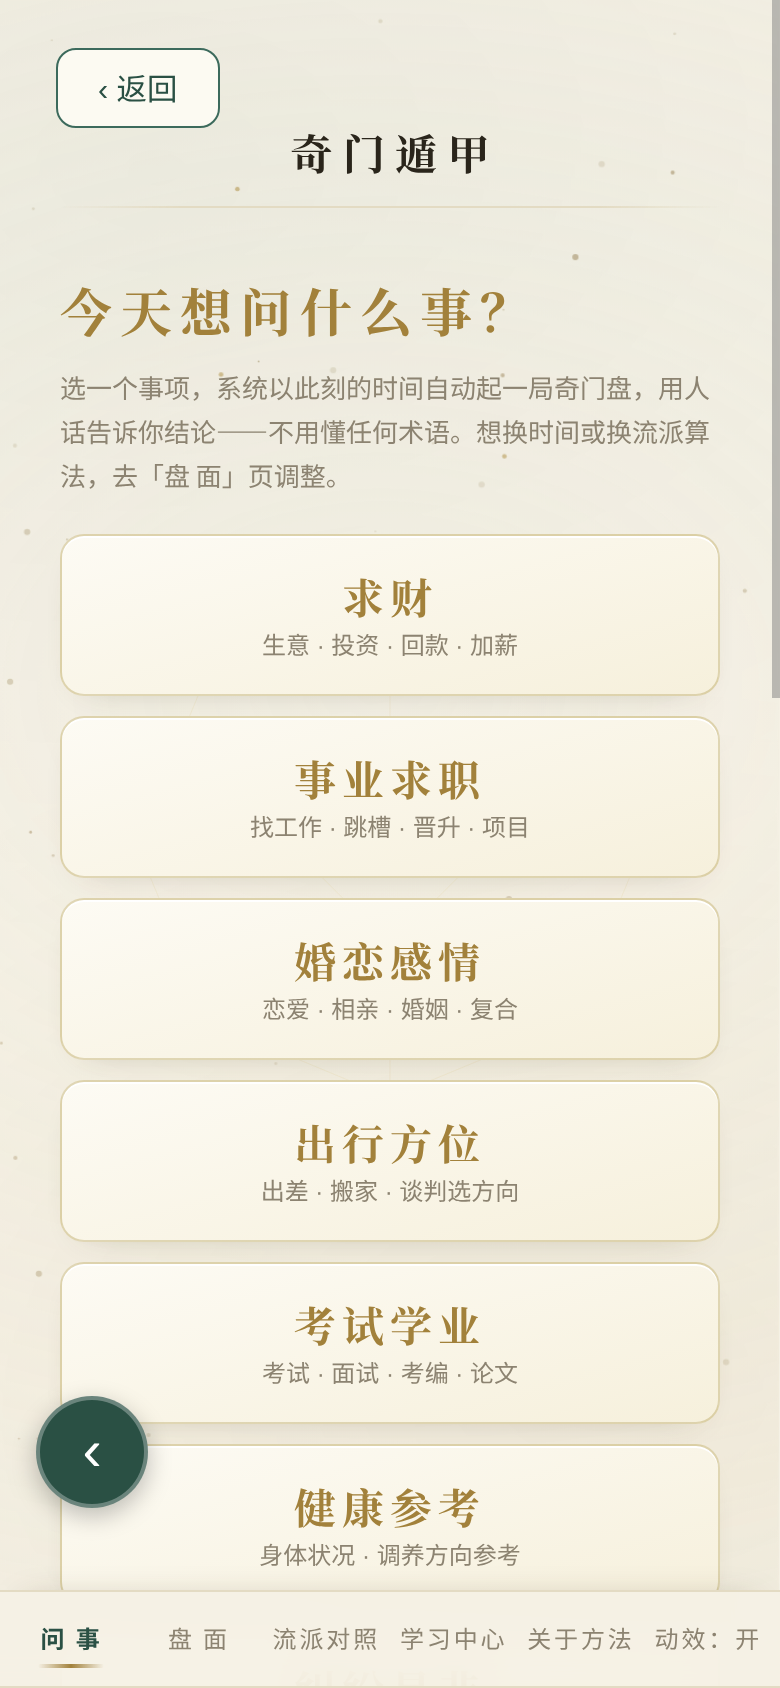
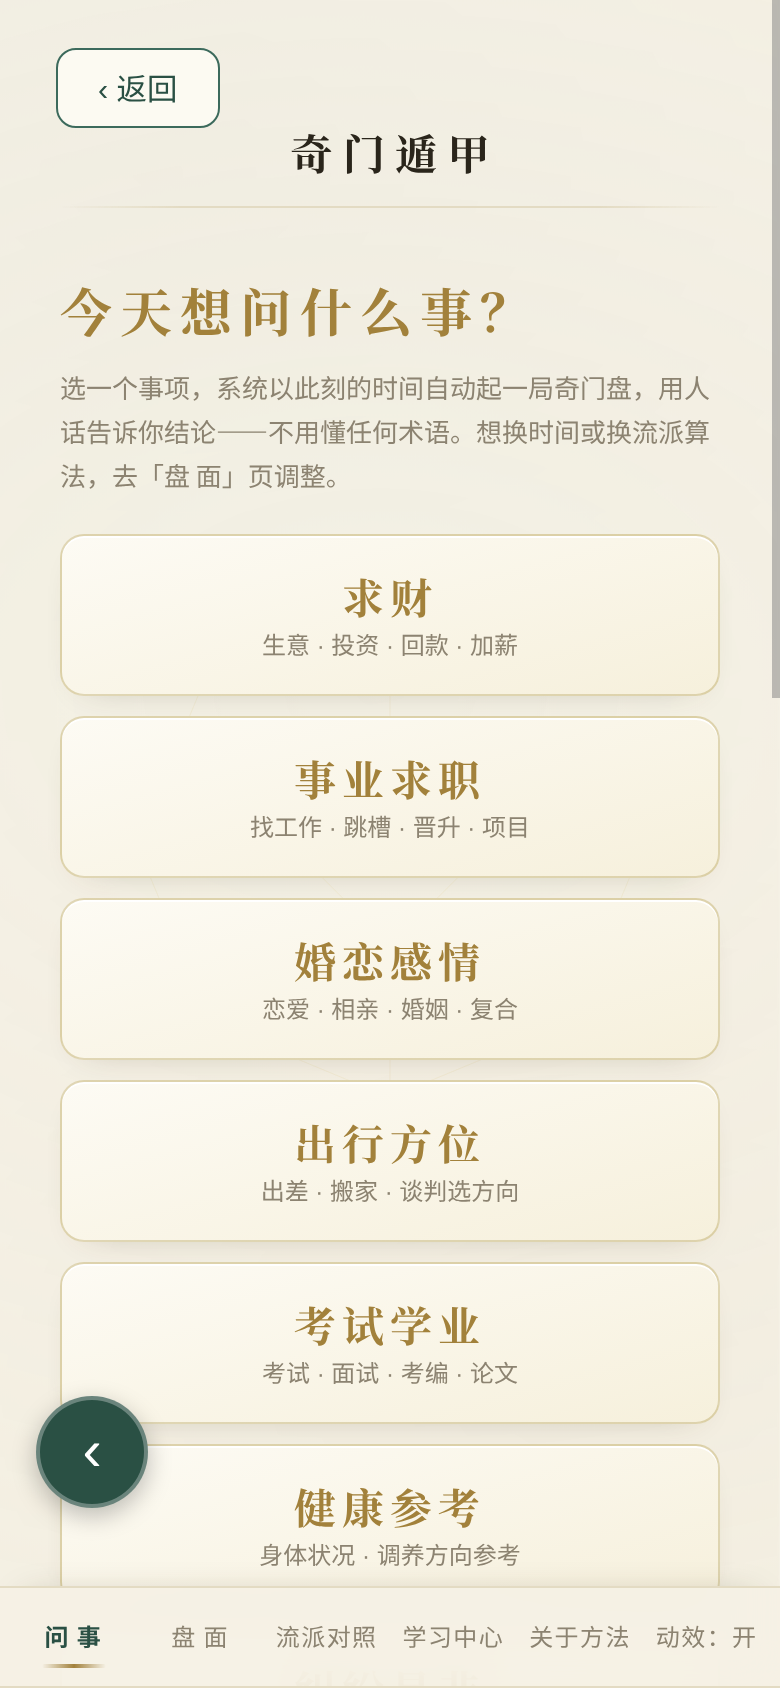
奇门三轮真机修复（(41) 后反馈四项）：时辰三钮同行等宽（根因：日期框固有宽度独占一行把起盘挤入导航行，定 flex-basis 190px 后首行日期+起盘、次行三钮各 104.7px 同行）；四柱改回一行（用户否决 2+2，clamp(16px,5.3vw,20px) 自适应，390px 实测一行完整、字号 20px）；白天主题去星点（render3d day 不绘制＋CSS 隐藏星层，光晕淡化至 .25，夜间星空不动）；底部页签六项等宽均分（flex 1 1 0＋间距统一 2px，实测六项 61.3px 等宽）。smoke_r2 断言同步新预期（三钮同行等宽/四柱一行/白天星点=0/页

diff --git a/www/css/qimen.css b/www/css/qimen.css
@@ -821,3 +821,49 @@
 }
 /* 亮主题星穹光晕略增存在感（夜间不动） */
 :root:not([data-theme="night"]) .qm-scope .sky-wash { opacity: .68; }
+
+/* ===== 三轮真机反馈修复（2026-10-22，(41) 上线后真机四项） =====
+ * 1) 时辰导航三钮同行：窄屏下「此刻/←前一时辰/后一时辰→」各占一行 1/3 等宽，
+ *    强制同行不换行；宽屏恢复自然宽度与日期/起盘同排。 */
+@media (max-width: 720px) {
+  .qm-scope .controls #qm-btnNow,
+  .qm-scope .controls #qm-btnPrev,
+  .qm-scope .controls #qm-btnNext {
+    flex: 1 1 calc(33.333% - 6px);
+    white-space: nowrap;
+    padding-left: 4px; padding-right: 4px;
+    letter-spacing: .5px;
+  }
+  /* 日期框须与「起盘」同行：其固有宽度（约 250px）原本独占一行，
+     把起盘挤进导航行、再把后一时辰挤到第三行——定 basis 后首行 dt+起盘、次行三钮均分 */
+  .qm-scope .controls #qm-dt { flex: 1 1 190px; min-width: 0; }
+}
+/* 2) 四柱改回一行（用户否决二轮 2+2）：不换行、字号随视口自适应缩放，
+ *    下限 16px 保可读、上限 20px 同原大字；390px 实测一行完整装下。 */
+.qm-scope #qm-sizhu {
+  flex-wrap: nowrap;
+  column-gap: .3em;
+  white-space: nowrap;
+  font-size: clamp(16px, 5.3vw, 20px);
+  letter-spacing: 1px;
+}
+.qm-scope #qm-sizhu .sz-p { flex: 0 0 auto; text-align: center; }
+.qm-scope #qm-sizhu .sz-dot { display: inline; }
+/* 3) 白天主题去掉背景星点：宣纸底上星点像屏幕落灰——day 下星层画布不显示
+ *    （render3d 同步不绘制），光晕淡化到近不可见；夜间星空与光晕不动。 */
+:root:not([data-theme="night"]) .qm-scope #qm-sky { display: none; }
+:root:not([data-theme="night"]) .qm-scope .sky-wash { opacity: .25; }
+/* 4) 底部页签栏精修：六项（问事/盘面/流派对照/学习中心/关于方法/动效）
+ *    等宽均分、间距统一，消除「问事后空档偏大」的参差感；选中金下划线口径不变。 */
+.qm-scope nav { gap: 4px; }
+.qm-scope nav .tabbtn { flex: 1 1 0; text-align: center; }
+.qm-scope nav .linkbtn { flex: 1 1 0; margin-left: 0; text-align: center; }
+@media (max-width: 720px) {
+  .qm-scope nav {
+    justify-content: space-between;
+    gap: 2px;
+    padding: 6px 6px calc(6px + env(safe-area-inset-bottom, 0px));
+  }
+  .qm-scope nav .tabbtn { padding: 10px 0; letter-spacing: .06em; }
+  .qm-scope nav .linkbtn { padding: 10px 0; letter-spacing: .06em; margin-left: 0; }
+}

diff --git a/www/js/qimen-render3d.js b/www/js/qimen-render3d.js
@@ -91,11 +91,11 @@
     var mx = 0, my = 0;
 
     function build() {
-      /* 星色随主题取色：夜间奶油白；亮主题暖灰金
-         （原作写死奶油色，在宣纸底上几乎不可见——亮主题「动画没了」的主因之一） */
+      /* 星层仅夜间绘制：白天宣纸底上的星点像屏幕落灰（三轮真机反馈），
+         day 下清空画布不生成星点（CSS 亦同步隐藏 #qm-sky）；夜间奶油白星色不变。 */
       var dayInk = document.documentElement.getAttribute("data-theme") !== "night";
-      var ink = dayInk ? "146,120,70" : "232,226,208";
-      var inkMul = dayInk ? 0.85 : 1;
+      var ink = "232,226,208";
+      var inkMul = 1;
       W = Math.max(1, window.innerWidth);
       H = Math.max(1, window.innerHeight);
       cv.width = Math.floor(W * dpr);
@@ -109,8 +109,8 @@
       lc.setTransform(dpr, 0, 0, dpr, 0, 0);
       lc.clearRect(0, 0, W, H);
 
-      /* 星点分布：偏上密、偏下疏，避免压住盘面文字 */
-      for (var i = 0; i < count; i++) {
+      /* 星点分布：偏上密、偏下疏，避免压住盘面文字（白天不绘制，直接跳过） */
+      for (var i = 0; !dayInk && i < count; i++) {
         var x = Math.random() * W;
         var y = Math.pow(Math.random(), 0.72) * H;
         var r = [0.45, 0.7, 1.0, 1.5][Math.floor(Math.random() * 4)];
@@ -120,11 +120,11 @@
         lc.fillStyle = "rgba(" + ink + "," + (a * inkMul).toFixed(3) + ")";
         lc.fill();
       }
-      /* 少量暖色星，呼应鎏金 */
-      for (var j = 0; j < Math.round(count / 12); j++) {
+      /* 少量暖色星，呼应鎏金（白天同样不绘制） */
+      for (var j = 0; !dayInk && j < Math.round(count / 12); j++) {
         lc.beginPath();
         lc.arc(Math.random() * W, Math.pow(Math.random(), 0.7) * H, 1.1, 0, Math.PI * 2);
-        lc.fillStyle = dayInk ? "rgba(176,141,60,.6)" : "rgba(242,220,150,.55)";
+        lc.fillStyle = "rgba(242,220,150,.55)";
         lc.fill();
       }
       paint();

diff --git a/qimen-build/smoke_r2.py b/qimen-build/smoke_r2.py
@@ -1,5 +1,6 @@
 #!/usr/bin/env python3
-"""二轮真机反馈修复验证：六项 + 第7项，390x844 双主题，动画客观证据。"""
+"""二轮+三轮真机反馈修复验证：390x844 双主题，动画客观证据。
+三轮新预期：四柱一行（非 2+2）、白天星点=0、时辰三钮同行等宽、底部页签六项均分。"""
 import importlib.util, json, os, subprocess, sys, time, urllib.request
 
 spec = importlib.util.spec_from_file_location("smoke", os.path.expanduser("~/workspace/wuri-app/smoke-test.py"))
@@ -87,11 +88,27 @@ def main():
               return out; })()""")
             bad = [g for g in geo if g["p"] != "5" and (g["rects"] != 1 or g["doorBottomGap"] < 0 or g["badgeW"] > 27 or g["badgeH"] > 23 or g["overlap"] > 0)]
             check(f"[{theme}] 九宫文字不溢出/徽章不压字", not bad, json.dumps(bad, ensure_ascii=False))
-            # --- 第5项四柱 2+2 ---
+            # --- 三轮第2项：四柱改回一行（用户否决 2+2） ---
             rows = ev("""(() => { const ps = [...document.querySelectorAll('#qm-sizhu .sz-p')];
               const ys = {}; ps.forEach(p => { const y = Math.round(p.getBoundingClientRect().top); ys[y] = (ys[y]||0)+1; });
-              return Object.values(ys); })()""")
-            check(f"[{theme}] 四柱 2+2 两行", rows == [2, 2], rows)
+              const sz = document.getElementById('qm-sizhu');
+              return { rows: Object.values(ys), fs: parseFloat(getComputedStyle(sz).fontSize),
+                       sw: sz.scrollWidth, cw: sz.clientWidth }; })()""")
+            check(f"[{theme}] 四柱一行四段", rows["rows"] == [4], rows)
+            check(f"[{theme}] 四柱字号≥16且不溢出", rows["fs"] >= 16 and rows["sw"] <= rows["cw"] + 1, rows)
+            # --- 三轮第1项：时辰三钮同行等宽 ---
+            btns = ev("""(() => { const ids = ['qm-btnNow','qm-btnPrev','qm-btnNext'];
+              return ids.map(id => { const r = document.getElementById(id).getBoundingClientRect();
+                return { top: Math.round(r.top), w: +r.width.toFixed(1) }; }); })()""")
+            check(f"[{theme}] 时辰三钮同行", len({b["top"] for b in btns}) == 1, btns)
+            check(f"[{theme}] 时辰三钮等宽", max(b["w"] for b in btns) - min(b["w"] for b in btns) <= 2, btns)
+            # --- 三轮第4项：底部页签六项均分（宽度一致、间距均匀） ---
+            navm = ev("""(() => { const items = [...document.querySelectorAll('#qm-root nav .tabbtn, #qm-root nav .linkbtn')];
+              const rs = items.map(el => el.getBoundingClientRect());
+              const gaps = []; for (let i = 1; i < rs.length; i++) gaps.push(+(rs[i].left - rs[i-1].right).toFixed(1));
+              return { ws: rs.map(r => +r.width.toFixed(1)), gaps }; })()""")
+            check(f"[{theme}] 页签六项等宽", max(navm["ws"]) - min(navm["ws"]) <= 2, navm)
+            check(f"[{theme}] 页签间距均匀", max(navm["gaps"]) - min(navm["gaps"]) <= 2, navm)
             # --- 第1/6项间距 ---
             gap = ev("""(() => { const brief = document.getElementById('qm-brief');
               const view = document.getElementById('view-qimen');
@@ -114,7 +131,7 @@ def main():
             check(f"[{theme}] 盘面闲置轻摆在动", len(set(rys)) >= 2, rys)
             # 星层像素：双主题各自星色像素存在
             starpx = ev("""(() => { const cv = document.getElementById('qm-sky');
-              const d = cv.getContext('2d').getImageData(0, 0, cv.width, Math.min(cv.height, 300)).data;
+              const d = cv.getContext('2d').getImageData(0, 0, cv.width, cv.height).data;
               let nz = 0, warm = 0, cream = 0;
               for (let i = 0; i < d.length; i += 4 * 7) {
                 const r = d[i], g = d[i+1], b = d[i+2], a = d[i+3];
@@ -122,7 +139,8 @@ def main():
                              if (Math.abs(r-232)<14 && Math.abs(g-226)<14 && Math.abs(b-208)<14) cream++; } }
               return { nz, warm, cream }; })()""")
             if theme == "day":
-                check(f"[{theme}] 亮主题星点可见（暖灰金）", starpx["warm"] > 20 and starpx["cream"] == 0, starpx)
+                # 三轮第3项新预期：白天不绘制星点（像屏幕落灰）——画布全透明
+                check(f"[{theme}] 白天星点=0（不绘制）", starpx["nz"] == 0 and starpx["warm"] == 0 and starpx["cream"] == 0, starpx)
             else:
                 check(f"[{theme}] 夜间星点可见（奶油色）", starpx["cream"] > 20 and starpx["warm"] == 0, starpx)
             # 入场动画：页内 50ms 采样末格 opacity（避开 CDP 往返延迟）
